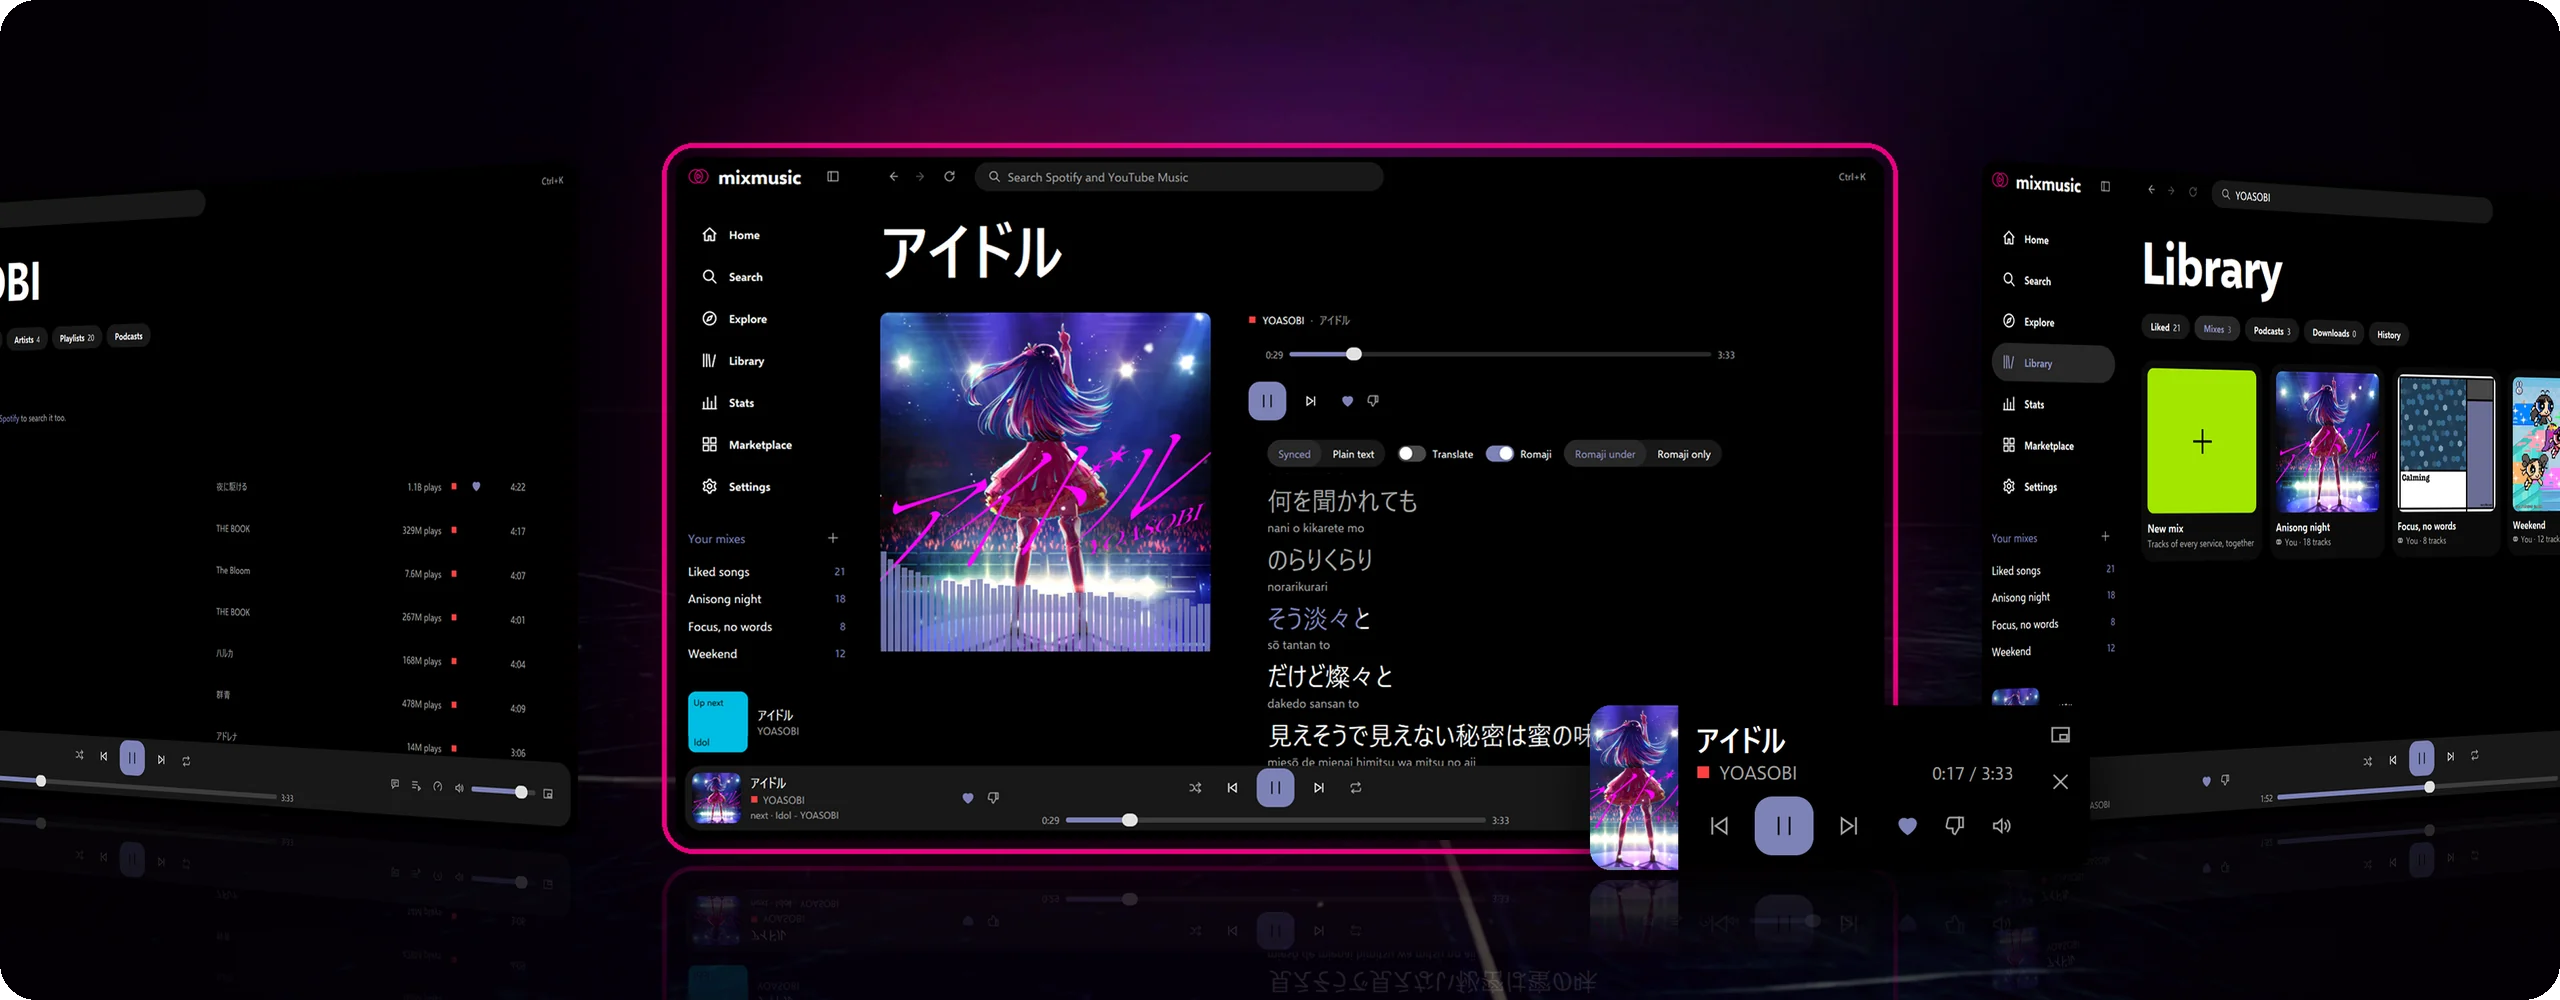
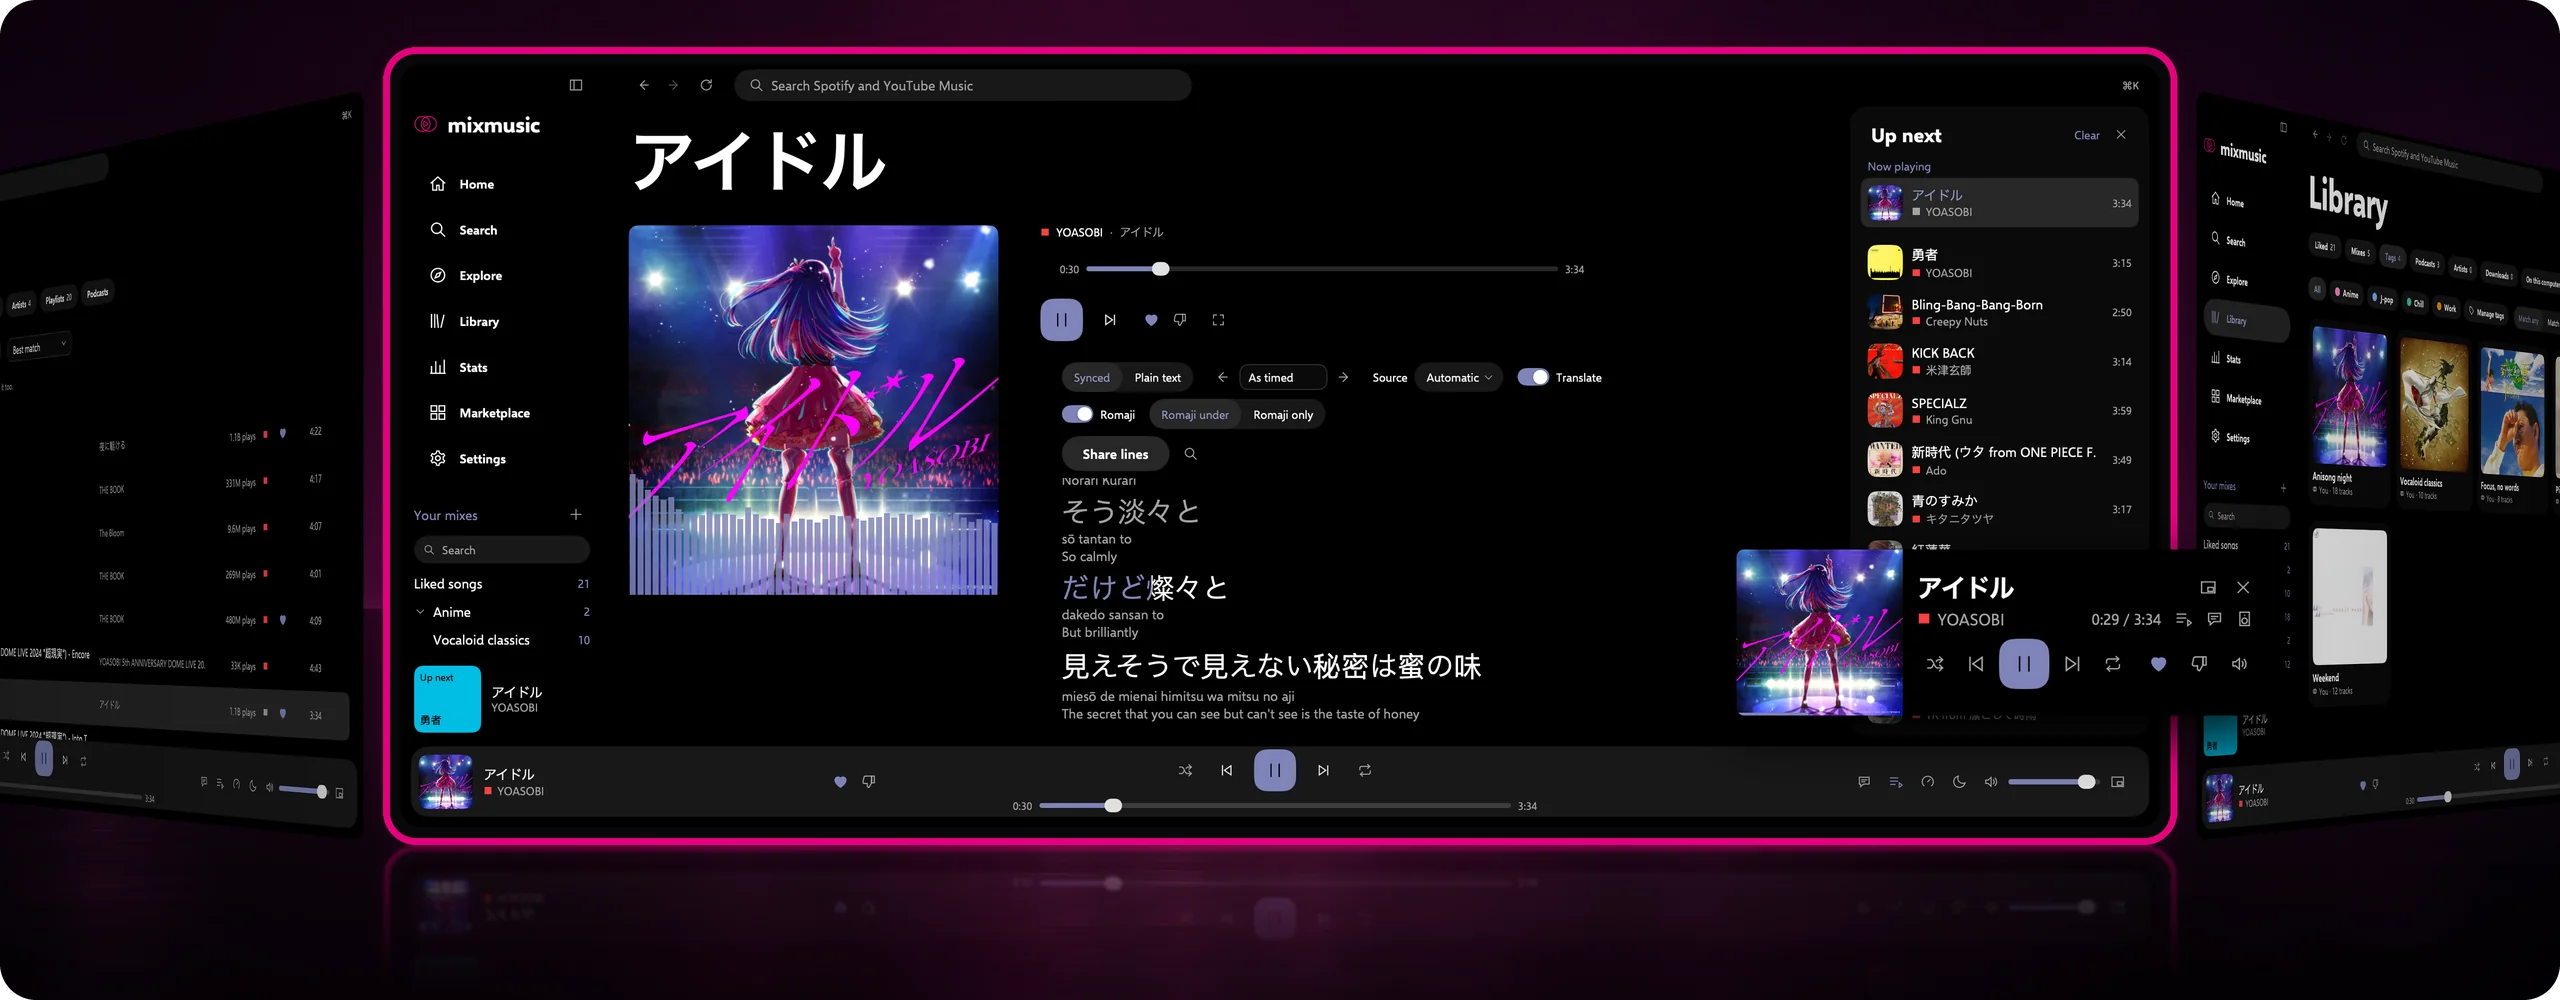
docs(readme): the pictures of MixMusic much closer, in its newest design (#864)
* docs(readme): the banner much closer, in main's newest design

Now playing アイドル fills about two thirds of the width, with the
mini player in front; a search and the Library's tags and folders run
off the edges. Real screenshots of main, projected by code; the stage
by GPT Image 2.6. Part of #862.

* docs(readme): Listen's picture much closer, in main's newest design

Now playing アイドル with romaji, a translation and the lyrics toolbar
in the middle; the album THE BOOK 3 and a followed podcast at the
sides. Part of #862.

* docs(readme): Make it yours' picture much closer, in main's newest design

Settings › Appearance with the four layouts and the themes in the
middle; the Material theme coloured by the cover and the marketplace's
community themes at the sides. Part of #862.

* docs(readme): the banner's description names no version, which goes stale

diff --git a/README.bn.md b/README.bn.md
@@ -32,7 +32,7 @@
 </p>
 
 <p align="center">
-  <img src="docs/banner.webp" alt="MixMusic 0.5.9 তার ডিফল্ট চেহারায়, Mix থিমসহ Blend লেআউটে, একটি অন্ধকার মঞ্চে সোজা দাঁড়িয়ে আপনার দিকে মুখ করে আছে: মাঝখানে YOASOBI-র アイドル বাজছে, গোলাপি রেখায় ঘেরা, লিরিক্সের প্রতিটি লাইনের নিচে romaji এবং সামনে মিনি প্লেয়ার; বাঁ দিকে একটি সার্চ আর ডান দিকে লাইব্রেরির মিক্সগুলো" />
+  <img src="docs/banner.webp" alt="MixMusic তার ডিফল্ট চেহারায়, Mix থিমসহ Blend লেআউটে, একটি অন্ধকার মঞ্চে সোজা দাঁড়িয়ে আপনার দিকে মুখ করে আছে: মাঝখানে YOASOBI-র アイドル বাজছে, গোলাপি রেখায় ঘেরা, লিরিক্সের প্রতিটি লাইনের নিচে romaji এবং সামনে মিনি প্লেয়ার; বাঁ দিকে একটি সার্চ আর ডান দিকে লাইব্রেরির মিক্সগুলো" />
 </p>
 
 ## কেন MixMusic

diff --git a/README.hi.md b/README.hi.md
@@ -32,7 +32,7 @@
 </p>
 
 <p align="center">
-  <img src="docs/banner.webp" alt="MixMusic 0.5.9 अपने डिफ़ॉल्ट रूप में, Mix थीम के साथ Blend लेआउट, गहरे मंच पर सीधा खड़ा और आपकी ओर मुँह किए हुए: बीच में YOASOBI का アイドル चल रहा है, गुलाबी किनारी के साथ, उसके हर lyrics की पंक्ति के नीचे romaji और सामने मिनी प्लेयर; बाईं ओर एक सर्च और दाईं ओर लाइब्रेरी के mix" />
+  <img src="docs/banner.webp" alt="MixMusic अपने डिफ़ॉल्ट रूप में, Mix थीम के साथ Blend लेआउट, गहरे मंच पर सीधा खड़ा और आपकी ओर मुँह किए हुए: बीच में YOASOBI का アイドル चल रहा है, गुलाबी किनारी के साथ, उसके हर lyrics की पंक्ति के नीचे romaji और सामने मिनी प्लेयर; बाईं ओर एक सर्च और दाईं ओर लाइब्रेरी के mix" />
 </p>
 
 ## MixMusic क्यों

diff --git a/README.am.md b/README.am.md
@@ -32,7 +32,7 @@
 </p>
 
 <p align="center">
-  <img src="docs/banner.webp" alt="MixMusic 0.5.9 በነባሪ መልኩ፣ የBlend አቀማመጥ ከMix ገጽታ ጋር፣ በጨለማ መድረክ ላይ ቀጥ ብሎ ወደ እርስዎ ሲመለከት፦ በመሃል በYOASOBI የተዘፈነው アイドル እየተጫወተ ነው፣ በሮዝ ቀለም ተከቧል፣ ከእያንዳንዱ የግጥሙ መስመር በታች ሮማጂ አለ፣ ከፊት ለፊቱ ሚኒ ማጫወቻው አለ፤ በግራ በኩል ፍለጋ፣ በቀኝ በኩል የቤተ-መጻሕፍቱ ሚክሶች" />
+  <img src="docs/banner.webp" alt="MixMusic በነባሪ መልኩ፣ የBlend አቀማመጥ ከMix ገጽታ ጋር፣ በጨለማ መድረክ ላይ ቀጥ ብሎ ወደ እርስዎ ሲመለከት፦ በመሃል በYOASOBI የተዘፈነው アイドル እየተጫወተ ነው፣ በሮዝ ቀለም ተከቧል፣ ከእያንዳንዱ የግጥሙ መስመር በታች ሮማጂ አለ፣ ከፊት ለፊቱ ሚኒ ማጫወቻው አለ፤ በግራ በኩል ፍለጋ፣ በቀኝ በኩል የቤተ-መጻሕፍቱ ሚክሶች" />
 </p>
 
 ## ለምን MixMusic

diff --git a/README.ur.md b/README.ur.md
@@ -32,7 +32,7 @@
 </p>
 
 <p align="center">
-  <img src="docs/banner.webp" alt="MixMusic 0.5.9 اپنی ڈیفالٹ شکل میں، یعنی Mix تھیم کے ساتھ Blend لے آؤٹ، ایک تاریک اسٹیج پر سیدھا کھڑا اور آپ کی طرف رخ کیے ہوئے: بیچ میں YOASOBI کا アイドル چل رہا ہے، گلابی خاکے کے ساتھ، اس کے بولوں کی ہر سطر کے نیچے romaji ہے اور اس کے سامنے منی پلیئر ہے؛ بائیں طرف سرچ اور دائیں طرف لائبریری کے مکسز" />
+  <img src="docs/banner.webp" alt="MixMusic اپنی ڈیفالٹ شکل میں، یعنی Mix تھیم کے ساتھ Blend لے آؤٹ، ایک تاریک اسٹیج پر سیدھا کھڑا اور آپ کی طرف رخ کیے ہوئے: بیچ میں YOASOBI کا アイドル چل رہا ہے، گلابی خاکے کے ساتھ، اس کے بولوں کی ہر سطر کے نیچے romaji ہے اور اس کے سامنے منی پلیئر ہے؛ بائیں طرف سرچ اور دائیں طرف لائبریری کے مکسز" />
 </p>
 
 <div dir="rtl">

diff --git a/README.ru.md b/README.ru.md
@@ -32,7 +32,7 @@
 </p>
 
 <p align="center">
-  <img src="docs/banner.webp" alt="MixMusic 0.5.9 в оформлении по умолчанию, макет Blend с темой Mix, стоит прямо на тёмной сцене лицом к вам: в центре играет アイドル группы YOASOBI, обведённая розовым, с ромадзи под каждой строкой текста и мини-плеером перед ней; слева поиск, справа миксы из медиатеки" />
+  <img src="docs/banner.webp" alt="MixMusic в оформлении по умолчанию, макет Blend с темой Mix, стоит прямо на тёмной сцене лицом к вам: в центре играет アイドル группы YOASOBI, обведённая розовым, с ромадзи под каждой строкой текста и мини-плеером перед ней; слева поиск, справа миксы из медиатеки" />
 </p>
 
 ## Зачем нужен MixMusic

diff --git a/README.ha.md b/README.ha.md
@@ -32,7 +32,7 @@
 </p>
 
 <p align="center">
-  <img src="docs/banner.webp" alt="MixMusic 0.5.9 a yanayinsa na asali, tsarin Blend tare da jigon Mix, a tsaye a kan wani fage mai duhu yana fuskantarka: a tsakiya ana kunna アイドル na YOASOBI, an zagaye shi da hoda, tare da romaji a ƙasan kowane layi na kalmomin waƙar da ƙaramin mai kunnawa a gabansa; a hagu akwai bincike, a dama kuma mix ɗin da ke cikin ɗakin waƙoƙi" />
+  <img src="docs/banner.webp" alt="MixMusic a yanayinsa na asali, tsarin Blend tare da jigon Mix, a tsaye a kan wani fage mai duhu yana fuskantarka: a tsakiya ana kunna アイドル na YOASOBI, an zagaye shi da hoda, tare da romaji a ƙasan kowane layi na kalmomin waƙar da ƙaramin mai kunnawa a gabansa; a hagu akwai bincike, a dama kuma mix ɗin da ke cikin ɗakin waƙoƙi" />
 </p>
 
 ## Dalilin MixMusic

diff --git a/README.id.md b/README.id.md
@@ -32,7 +32,7 @@
 </p>
 
 <p align="center">
-  <img src="docs/banner.webp" alt="MixMusic 0.5.9 dengan tampilan bawaannya, tata letak Blend dengan tema Mix, berdiri tegak di atas panggung gelap dan menghadap ke arah Anda: di tengah, アイドル oleh YOASOBI sedang diputar, bergaris tepi merah muda, dengan romaji di bawah setiap baris liriknya dan pemutar mini di depannya; di kiri sebuah pencarian, di kanan mix di pustaka" />
+  <img src="docs/banner.webp" alt="MixMusic dengan tampilan bawaannya, tata letak Blend dengan tema Mix, berdiri tegak di atas panggung gelap dan menghadap ke arah Anda: di tengah, アイドル oleh YOASOBI sedang diputar, bergaris tepi merah muda, dengan romaji di bawah setiap baris liriknya dan pemutar mini di depannya; di kiri sebuah pencarian, di kanan mix di pustaka" />
 </p>
 
 ## Mengapa MixMusic

diff --git a/README.md b/README.md
@@ -30,7 +30,7 @@
 </p>
 
 <p align="center">
-  <img src="docs/banner.webp" alt="MixMusic 0.5.9 in its default look, the Blend layout with the Mix theme, standing upright on a dark stage and facing you: now playing アイドル by YOASOBI in the middle, outlined in pink, with romaji under each line of its lyrics and the mini player in front of it; a search on the left and the library's mixes on the right" />
+  <img src="docs/banner.webp" alt="MixMusic in its default look, the Blend layout with the Mix theme, standing upright on a dark stage and facing you: now playing アイドル by YOASOBI in the middle, outlined in pink, with romaji under each line of its lyrics and the mini player in front of it; a search on the left and the library's mixes on the right" />
 </p>
 
 ## Why MixMusic

diff --git a/README.pt-BR.md b/README.pt-BR.md
@@ -32,7 +32,7 @@
 </p>
 
 <p align="center">
-  <img src="docs/banner.webp" alt="MixMusic 0.5.9 com a aparência padrão, o layout Blend com o tema Mix, de pé sobre um palco escuro e de frente para você: no meio, tocando agora アイドル, do YOASOBI, contornado em rosa, com romaji embaixo de cada linha da letra e o mini player na frente; uma busca à esquerda e os mixes da biblioteca à direita" />
+  <img src="docs/banner.webp" alt="MixMusic com a aparência padrão, o layout Blend com o tema Mix, de pé sobre um palco escuro e de frente para você: no meio, tocando agora アイドル, do YOASOBI, contornado em rosa, com romaji embaixo de cada linha da letra e o mini player na frente; uma busca à esquerda e os mixes da biblioteca à direita" />
 </p>
 
 ## Por que o MixMusic

diff --git a/README.zh-CN.md b/README.zh-CN.md
@@ -32,7 +32,7 @@
 </p>
 
 <p align="center">
-  <img src="docs/banner.webp" alt="MixMusic 0.5.9 的默认外观（Blend 布局、Mix 主题），竖立在深色舞台上、正对着你：中间是正在播放 YOASOBI《アイドル》的页面，带粉色描边，每行歌词下方显示罗马音，前面是迷你播放器；左边是搜索，右边是音乐库里的混合歌单" />
+  <img src="docs/banner.webp" alt="MixMusic 的默认外观（Blend 布局、Mix 主题），竖立在深色舞台上、正对着你：中间是正在播放 YOASOBI《アイドル》的页面，带粉色描边，每行歌词下方显示罗马音，前面是迷你播放器；左边是搜索，右边是音乐库里的混合歌单" />
 </p>
 
 ## 为什么选择 MixMusic
